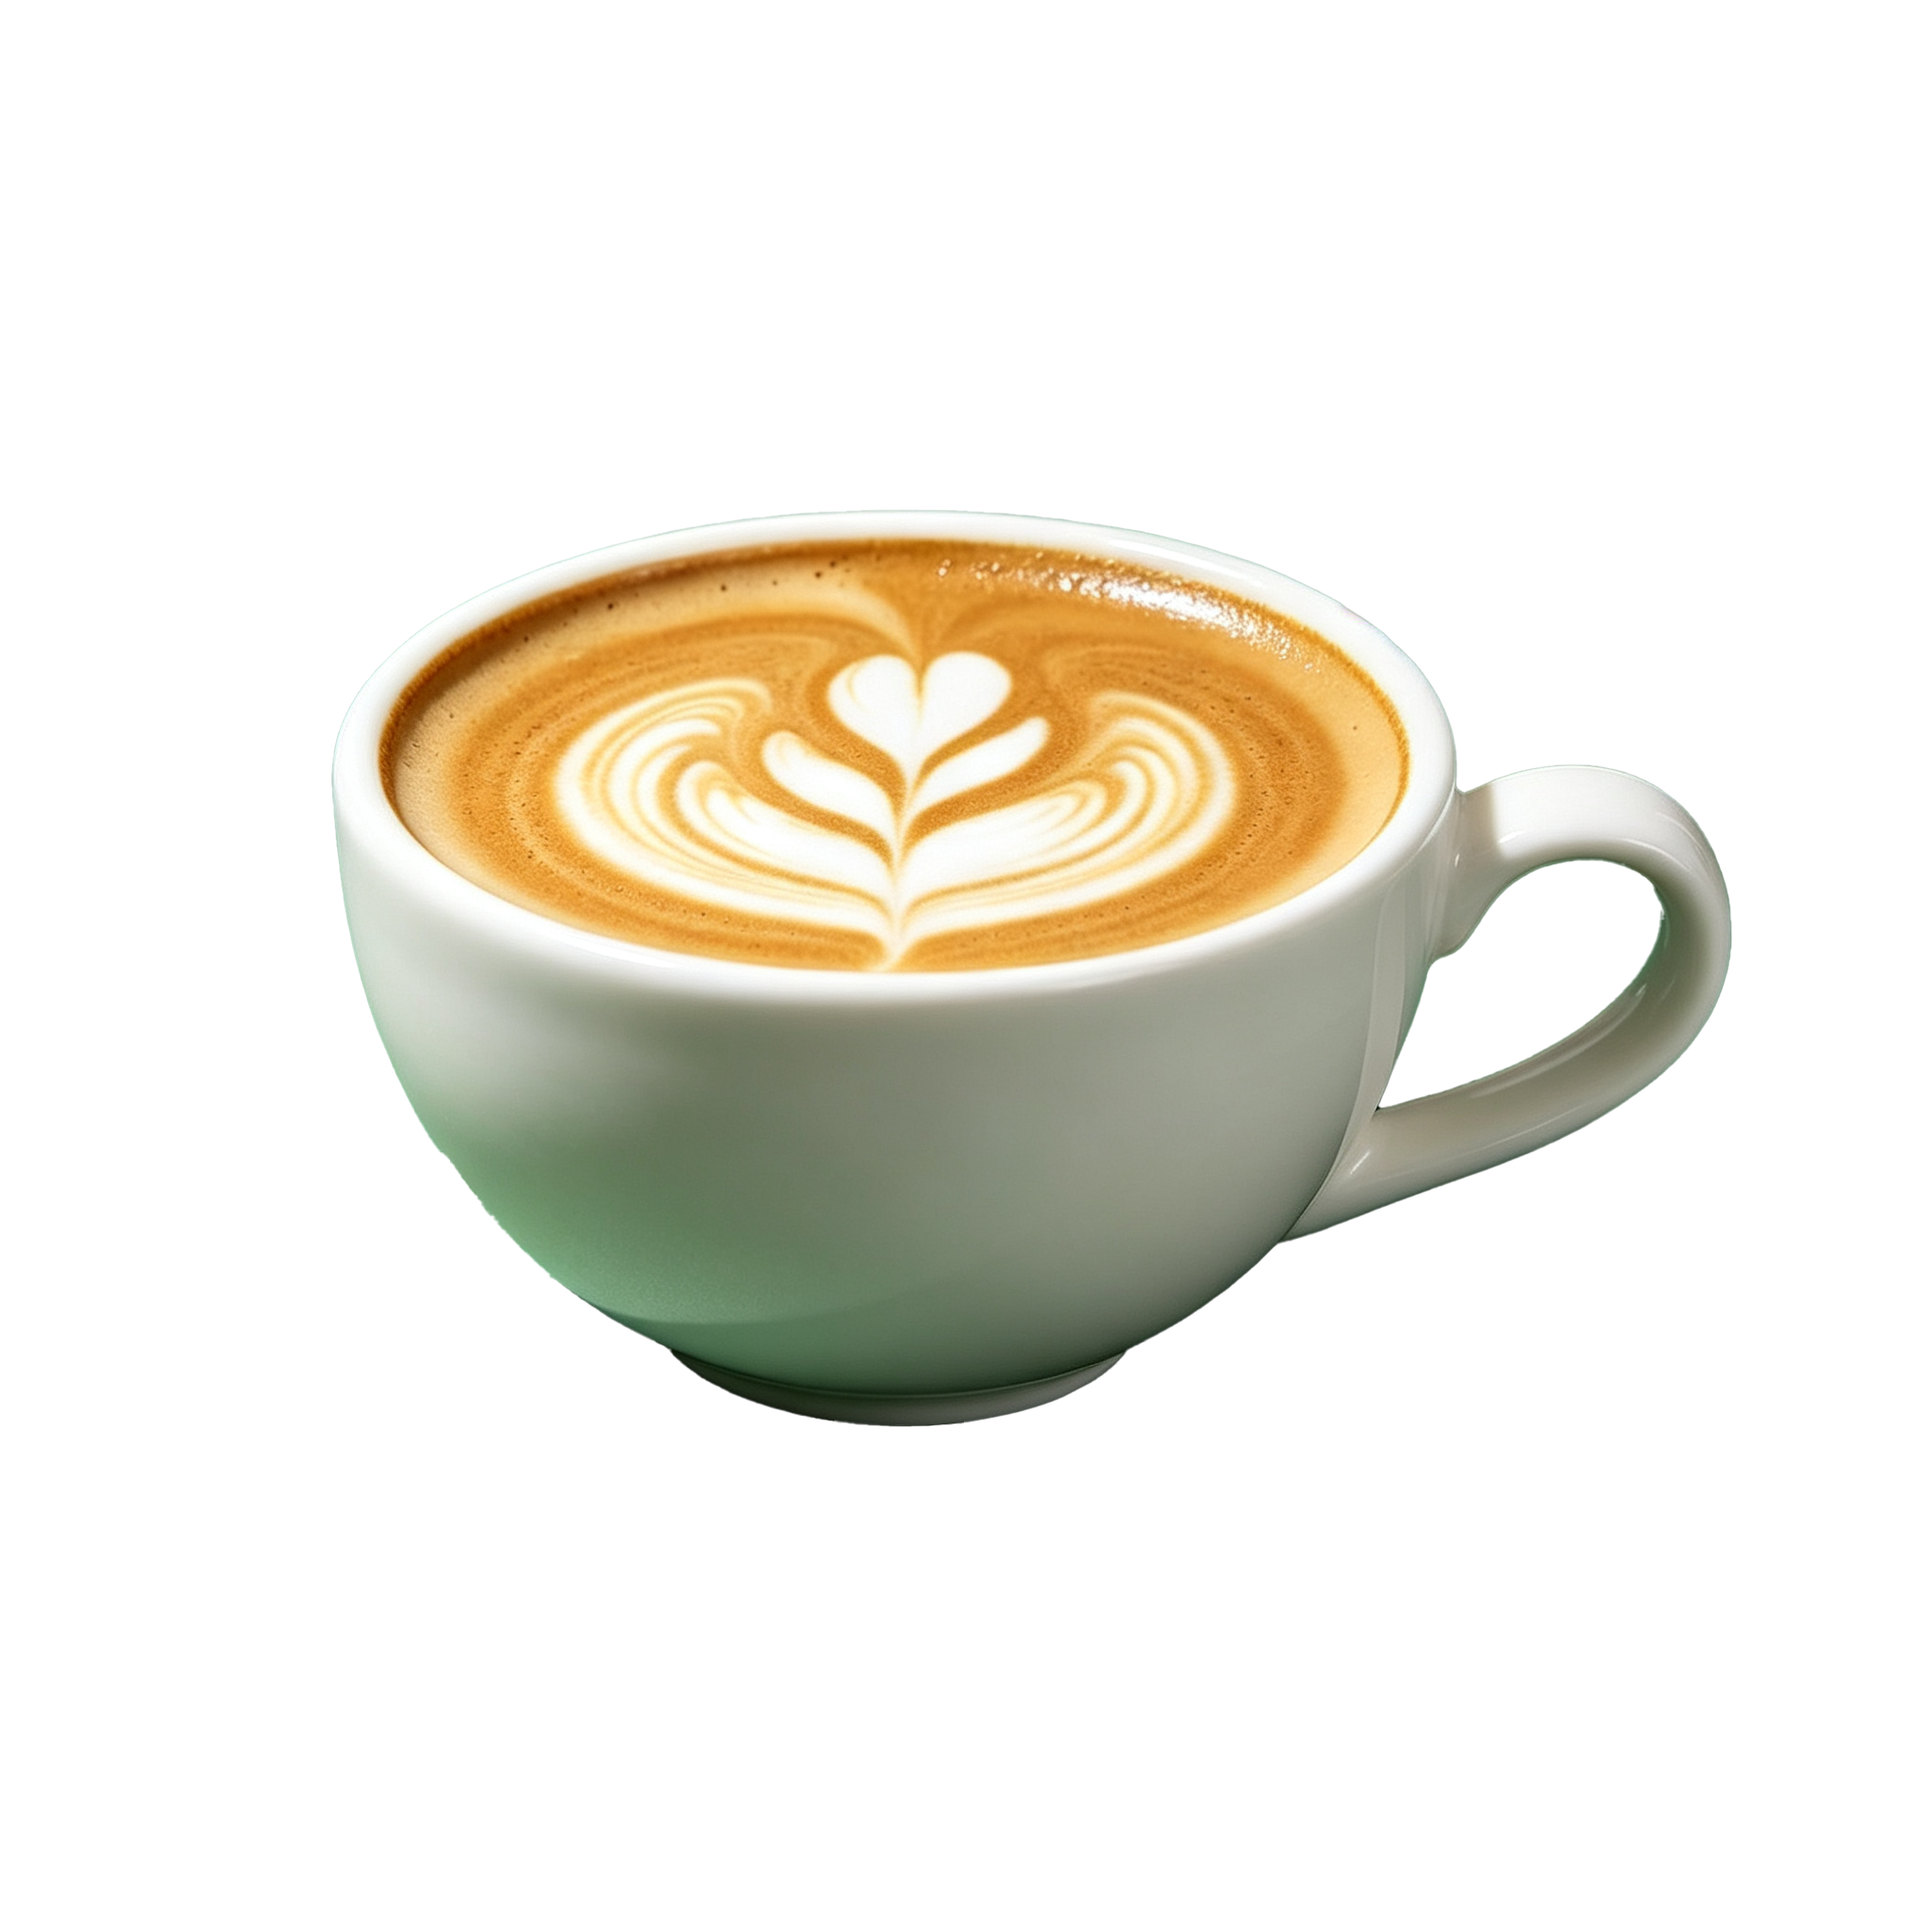
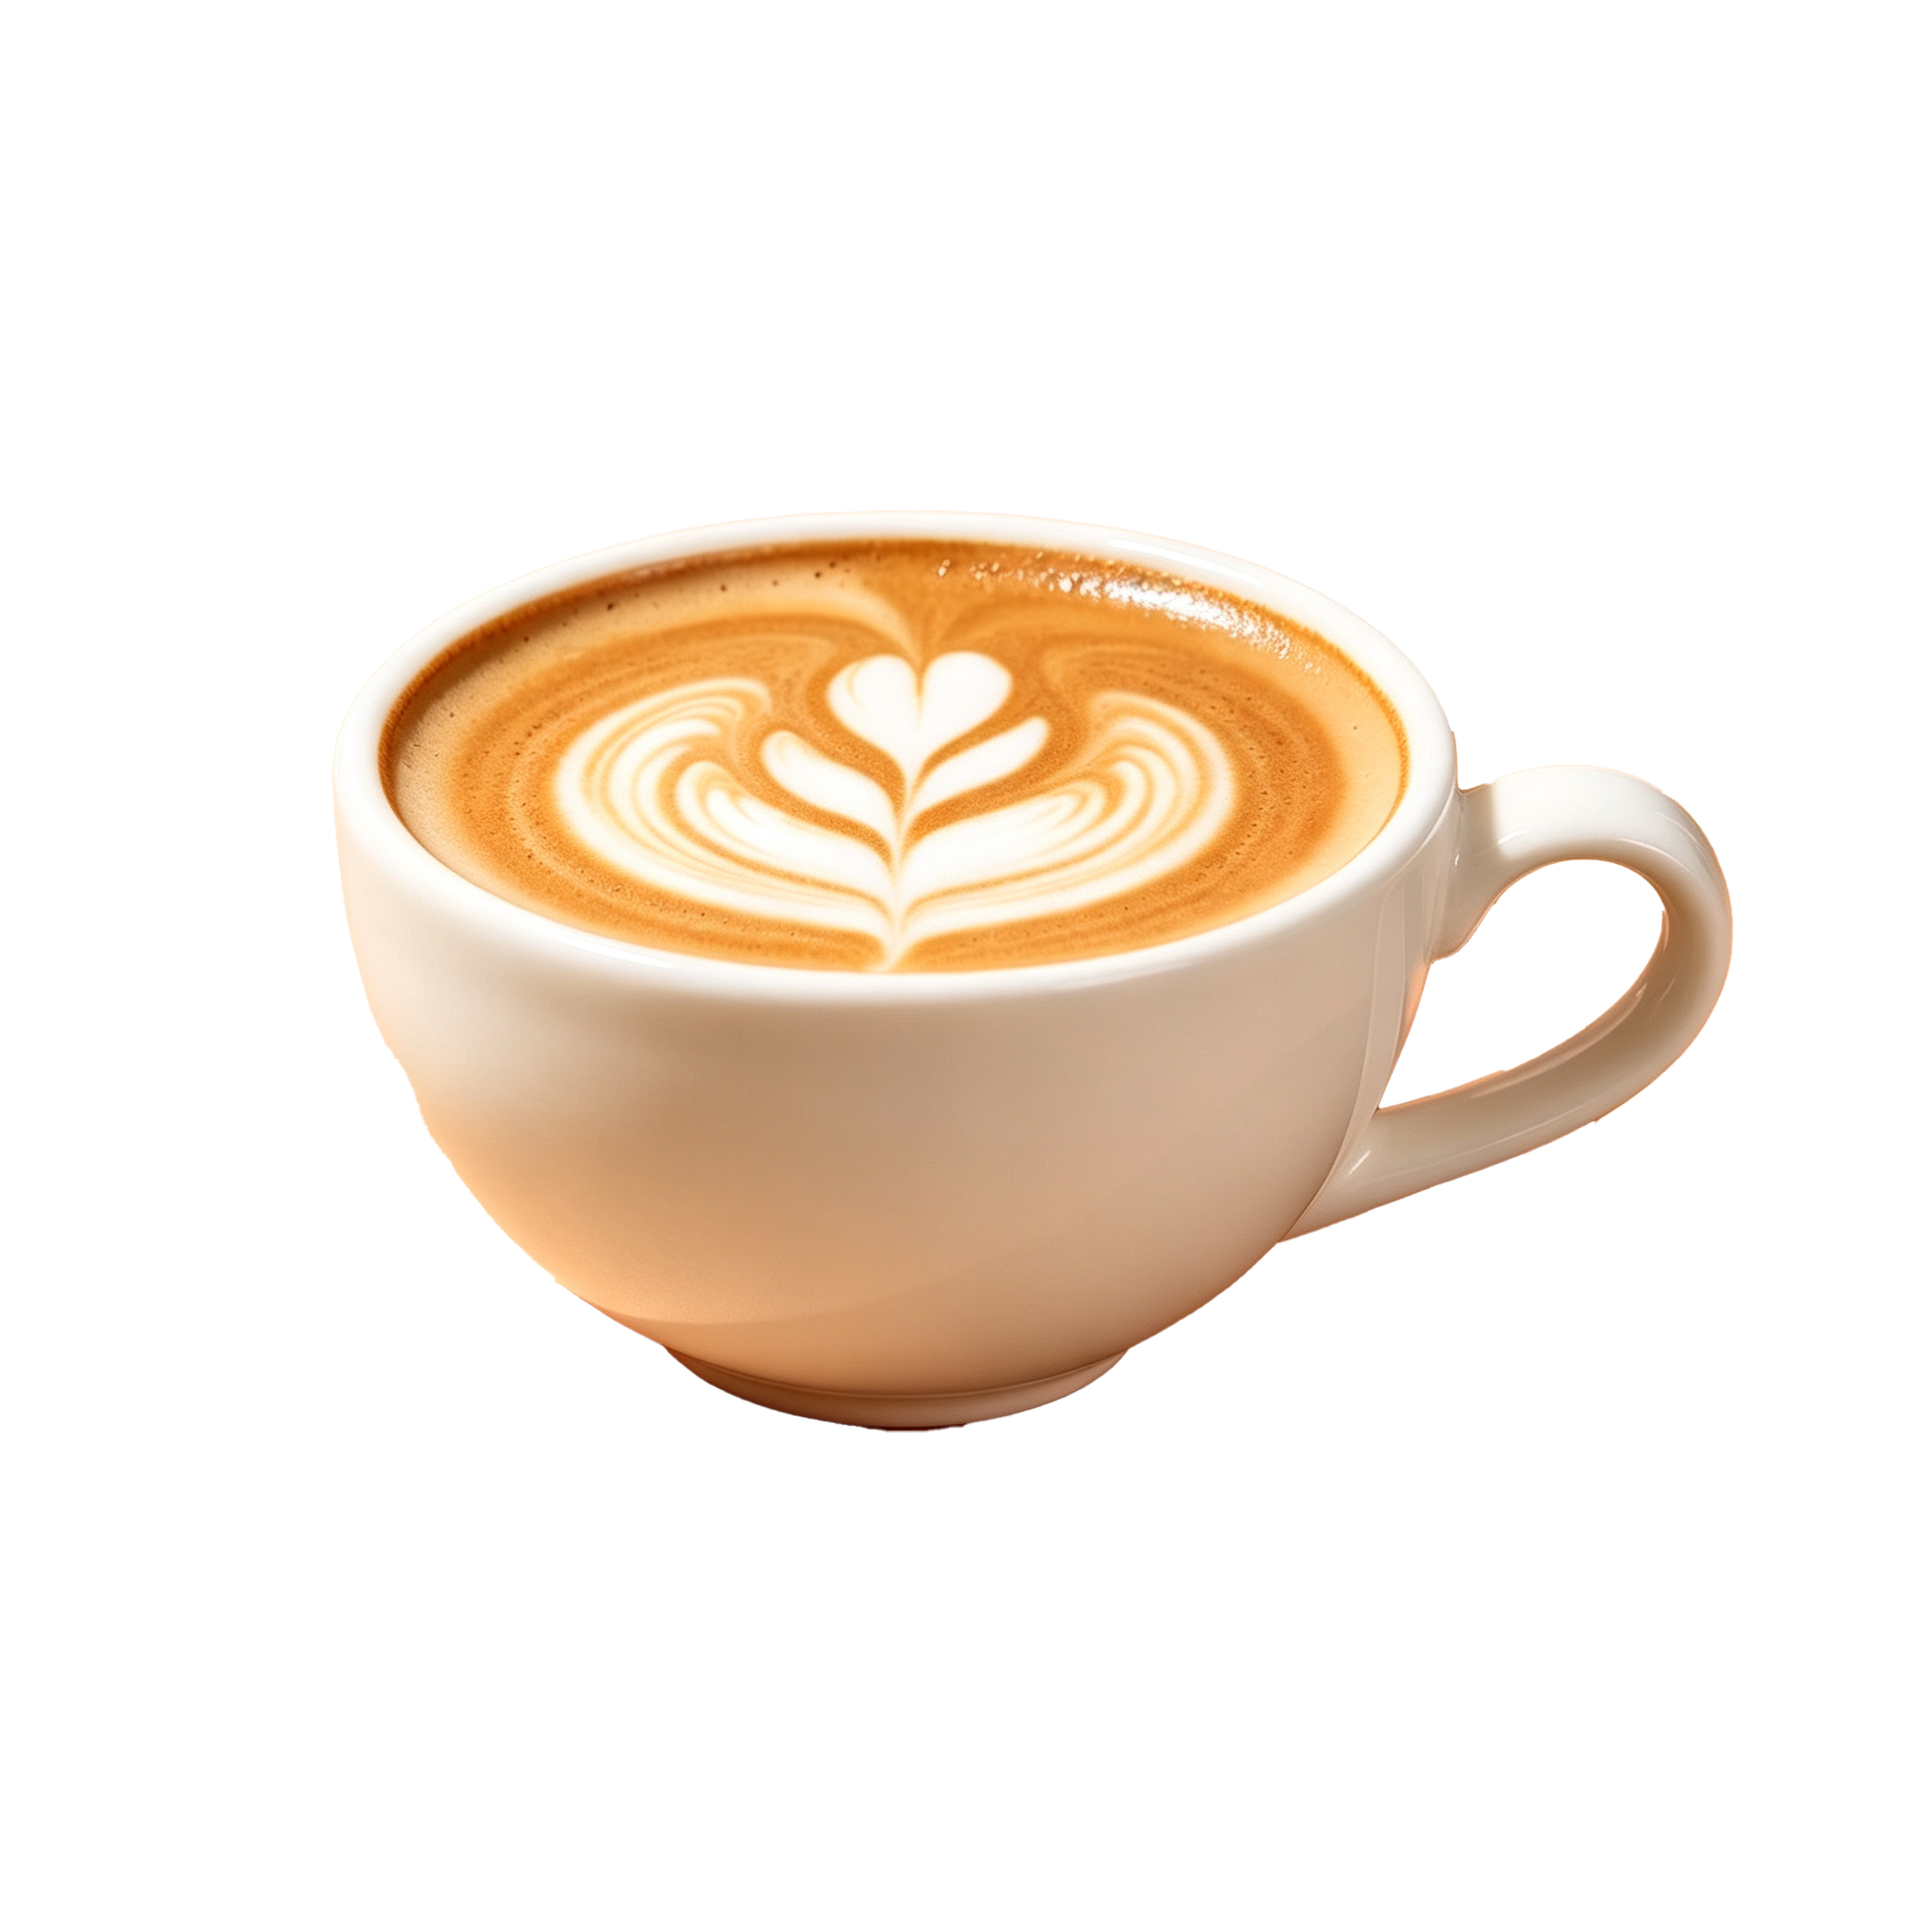
Update: bigger latte cup, ribbon particles with mouse repel, origin text colors, new KaFeiBei2

diff --git a/index.html b/index.html
@@ -378,25 +378,17 @@ html, body {
 }
 .p2-right .headline-cn {
   color: #1a1410;
-  text-shadow:
-    0 2px 12px rgba(244,239,232,0.95),
-    0 0 4px rgba(244,239,232,1),
-    1px 1px 0 rgba(244,239,232,0.9);
 }
 .p2-right .headline-cn em {
   color: #c75a2a;
-  text-shadow:
-    0 2px 12px rgba(244,239,232,0.95),
-    0 0 4px rgba(244,239,232,1);
 }
 .p2-right .body-cn {
-  color: #1a1410;
+  color: rgba(244, 239, 232, 0.92);
   font-weight: 400;
-  text-shadow: 0 1px 6px rgba(244,239,232,0.9), 0 0 3px rgba(244,239,232,1);
+  text-shadow: 0 1px 4px rgba(0,0,0,0.35);
 }
 .p2-right .divider {
-  background: #1a1410;
-  box-shadow: 0 0 8px rgba(244,239,232,0.9);
+  background: rgba(244, 239, 232, 0.7);
 }
 .p2-data {
   margin-top: 32px;
@@ -631,8 +623,8 @@ html, body {
 }
 .p6-cup-top {
   position: relative;
-  width: min(440px, 36vw);
-  height: min(440px, 36vw);
+  width: min(540px, 44vw);
+  height: min(540px, 44vw);
   background: url('assets/KaFeiBei1.png') center/contain no-repeat;
   filter: drop-shadow(0 30px 60px rgba(0,0,0,0.3));
 }
@@ -888,12 +880,15 @@ for (let i = 0; i < N; i++) {
   dotsBox.appendChild(dot);
 }
 
-// 生成研磨粒子（Canvas）
+// 生成研磨粒子（Canvas · 香飘带 + 鼠标排斥）
 const p4Canvas = document.getElementById('p4Canvas');
 const p4Ctx = p4Canvas.getContext('2d');
 let p4W = 0, p4H = 0;
 let p4Particles2 = [];
 let p4RAF = null;
+let p4Mouse = { x: -9999, y: -9999, active: false };
+const RIBBON_COUNT = 5; // 5 条香飘带
+let p4Ribbons = [];
 
 function p4Resize() {
   const dpr = window.devicePixelRatio || 1;
@@ -904,56 +899,101 @@ function p4Resize() {
   p4Canvas.height = p4H * dpr;
   p4Ctx.setTransform(dpr, 0, 0, dpr, 0, 0);
 }
-window.addEventListener('resize', p4Resize);
-p4Resize();
+window.addEventListener('resize', () => { p4Resize(); p4InitRibbons(); });
 
 const COFFEE_COLORS = [
-  'rgba(74, 37, 21, 0.85)',   // 深棕
-  'rgba(107, 53, 32, 0.75)',  // 中棕
-  'rgba(138, 90, 58, 0.65)',  // 浅棕
-  'rgba(199, 90, 42, 0.55)',  // 焦糖
-  'rgba(42, 20, 8, 0.9)',     // 极深
+  'rgba(74, 37, 21, 0.85)',
+  'rgba(107, 53, 32, 0.75)',
+  'rgba(138, 90, 58, 0.65)',
+  'rgba(199, 90, 42, 0.55)',
+  'rgba(42, 20, 8, 0.9)',
 ];
 
+// 每条香飘带的中心轨迹（正弦曲线参数）
+function p4InitRibbons() {
+  p4Ribbons = [];
+  for (let i = 0; i < RIBBON_COUNT; i++) {
+    const baseY = p4H * (0.15 + (i + 0.5) / RIBBON_COUNT * 0.7);
+    p4Ribbons.push({
+      baseY,
+      amp: 30 + Math.random() * 60,
+      freq: 0.003 + Math.random() * 0.004,
+      phase: Math.random() * Math.PI * 2,
+      thickness: 35 + Math.random() * 25, // 飘带厚度（粒子在中线±范围内分布）
+    });
+  }
+}
+
+function ribbonY(ribbon, x) {
+  return ribbon.baseY + Math.sin(x * ribbon.freq + ribbon.phase) * ribbon.amp;
+}
+
 function makeP4Particle() {
-  // 从画面左侧随机高度入场
-  const startY = Math.random() * p4H;
-  const endY = startY + (Math.random() - 0.5) * p4H * 0.6;
+  const ribbonIdx = Math.floor(Math.random() * RIBBON_COUNT);
+  const ribbon = p4Ribbons[ribbonIdx];
+  const x = -20 - Math.random() * 200;
+  const offset = (Math.random() - 0.5) * ribbon.thickness;
   return {
-    x: -20 - Math.random() * 100,
-    y: startY,
-    targetY: endY,
-    size: 0.8 + Math.random() * 3.2,
-    speed: 0.3 + Math.random() * 1.6,
-    drift: (Math.random() - 0.5) * 0.6,        // 上下漂移幅度
-    waveFreq: 0.005 + Math.random() * 0.015,    // 波动频率
-    waveAmp: 8 + Math.random() * 30,            // 波动幅度
-    phase: Math.random() * Math.PI * 2,
+    x,
+    y: ribbonY(ribbon, x) + offset,
+    vx: 0, vy: 0,
+    offset,
+    ribbonIdx,
+    size: 0.6 + Math.random() * 2.6,
+    speed: 0.6 + Math.random() * 1.4,
     color: COFFEE_COLORS[Math.floor(Math.random() * COFFEE_COLORS.length)],
-    alpha: 0.3 + Math.random() * 0.7,
+    alpha: 0.35 + Math.random() * 0.6,
     rot: Math.random() * Math.PI * 2,
-    rotSpeed: (Math.random() - 0.5) * 0.04,
-    type: Math.random() < 0.7 ? 'dot' : 'flake', // 70% 圆点，30% 不规则碎屑
+    rotSpeed: (Math.random() - 0.5) * 0.05,
+    type: Math.random() < 0.75 ? 'dot' : 'flake',
   };
 }
 
 function p4InitParticles() {
   p4Particles2 = [];
-  // 初始分布一批，避免空白
-  for (let i = 0; i < 220; i++) {
-    const p = makeP4Particle();
-    p.x = Math.random() * p4W; // 散布在画面里
-    p4Particles2.push(p);
+  // 每条飘带分配一批粒子，密度大幅增加
+  const PER_RIBBON = 180;
+  for (let r = 0; r < RIBBON_COUNT; r++) {
+    for (let i = 0; i < PER_RIBBON; i++) {
+      const p = makeP4Particle();
+      p.ribbonIdx = r;
+      p.x = Math.random() * p4W;
+      const ribbon = p4Ribbons[r];
+      p.y = ribbonY(ribbon, p.x) + (Math.random() - 0.5) * ribbon.thickness;
+      p4Particles2.push(p);
+    }
   }
 }
 
 function p4Tick() {
   p4Ctx.clearRect(0, 0, p4W, p4H);
+  const REPEL_RADIUS = 100;
+  const REPEL_RADIUS_SQ = REPEL_RADIUS * REPEL_RADIUS;
+  const REPEL_FORCE = 1.2;
+
   for (let i = p4Particles2.length - 1; i >= 0; i--) {
     const p = p4Particles2[i];
-    p.x += p.speed;
-    // 正弦波动 + 随机漂移
-    p.y += p.drift + Math.sin(p.x * p.waveFreq + p.phase) * 0.3;
+    const ribbon = p4Ribbons[p.ribbonIdx];
+    // 沿飘带轨迹推进
+    p.x += p.speed + p.vx;
+    // 目标 Y = 飘带中线 + 自身偏移
+    const targetY = ribbonY(ribbon, p.x) + p.offset;
+    p.y += (targetY - p.y) * 0.08 + p.vy;
+    // 鼠标排斥
+    if (p4Mouse.active) {
+      const dx = p.x - p4Mouse.x;
+      const dy = p.y - p4Mouse.y;
+      const distSq = dx * dx + dy * dy;
+      if (distSq < REPEL_RADIUS_SQ && distSq > 0.01) {
+        const dist = Math.sqrt(distSq);
+        const force = (1 - dist / REPEL_RADIUS) * REPEL_FORCE;
+        p.vx += (dx / dist) * force;
+        p.vy += (dy / dist) * force;
+      }
+    }
+    // 速度衰减（让粒子能回归飘带）
+    p.vx *= 0.92;
+    p.vy *= 0.88;
     p.rot += p.rotSpeed;
 
     p4Ctx.save();
@@ -966,27 +1006,49 @@ function p4Tick() {
       p4Ctx.arc(0, 0, p.size, 0, Math.PI * 2);
       p4Ctx.fill();
     } else {
-      // 不规则碎屑（小矩形）
       p4Ctx.fillRect(-p.size, -p.size * 0.6, p.size * 2, p.size * 1.2);
     }
     p4Ctx.restore();
 
-    // 出右边界 → 重置回左侧
-    if (p.x > p4W + 20) {
-      p4Particles2[i] = makeP4Particle();
+    if (p.x > p4W + 30) {
+      const np = makeP4Particle();
+      np.ribbonIdx = p.ribbonIdx;
+      const rb = p4Ribbons[p.ribbonIdx];
+      np.x = -20 - Math.random() * 100;
+      np.y = ribbonY(rb, np.x) + np.offset;
+      p4Particles2[i] = np;
     }
   }
   p4RAF = requestAnimationFrame(p4Tick);
 }
 
+// 鼠标位置追踪（仅 Ch4 active 时记录）
+p4Canvas.addEventListener('mousemove', (e) => {
+  const rect = p4Canvas.getBoundingClientRect();
+  p4Mouse.x = e.clientX - rect.left;
+  p4Mouse.y = e.clientY - rect.top;
+  p4Mouse.active = true;
+});
+// 用 document 监听 + 转换坐标，确保鼠标在文字上也能触发排斥
+document.addEventListener('mousemove', (e) => {
+  if (!p4RAF) return; // 仅 Ch4 运行时
+  const rect = p4Canvas.getBoundingClientRect();
+  p4Mouse.x = e.clientX - rect.left;
+  p4Mouse.y = e.clientY - rect.top;
+  p4Mouse.active = true;
+});
+document.addEventListener('mouseleave', () => { p4Mouse.active = false; });
+
 function p4Start() {
   p4Resize();
+  p4InitRibbons();
   p4InitParticles();
   if (p4RAF) cancelAnimationFrame(p4RAF);
   p4Tick();
 }
 function p4Stop() {
   if (p4RAF) { cancelAnimationFrame(p4RAF); p4RAF = null; }
+  p4Mouse.active = false;
 }
 
 function updateUI(idx) {
